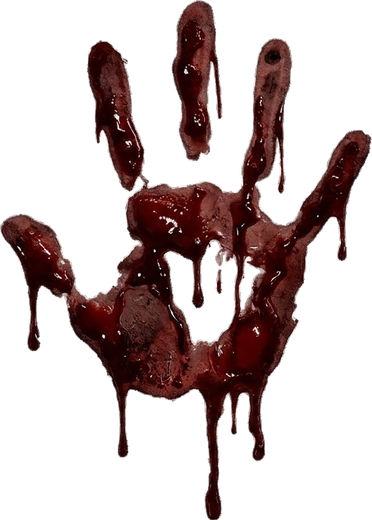
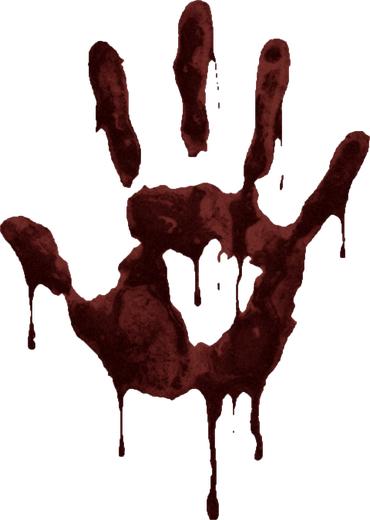
Impronta di mano: via bordini bianchi e riflessi, sangue secco e grezzo nella gamma delle altre scritte
Claude-Session: https://claude.ai/code/session_014dApnh5cQuMdZvTWDcVASP

diff --git a/sw.js b/sw.js
@@ -2,8 +2,8 @@
  * - Shell (html/css/js/vendor/icone): precache, cache-first. Nuova versione => nuovo SW "in attesa" => banner nell'app.
  * - Asset pesanti (modelli, texture, audio): cache separata; scaricati in background dopo l'installazione.
  * Le due versioni qui sotto le aggiorna tools/bump.sh a ogni modifica (hash del contenuto): non toccarle a mano. */
-const SHELL_VERSION = '9cea6ec9b2';   // @shell
-const ASSET_VERSION = '37bdf5ac22';   // @assets
+const SHELL_VERSION = '87e5a7093b';   // @shell
+const ASSET_VERSION = '6fa98053bf';   // @assets
 const SHELL = 'ng-shell-' + SHELL_VERSION, ASSETS = 'ng-assets-' + ASSET_VERSION;
 const SHELL_FILES = ['./','./css/style.css','./icons/icon-180.png','./icons/icon-192.png','./icons/icon-32.png','./icons/icon-512.png','./icons/maskable-512.png','./index.html','./js/audio/audio.js','./js/events/ambient.js','./js/events/cellar.js','./js/events/combat.js','./js/events/dawn.js','./js/events/door.js','./js/events/glass.js','./js/events/hall.js','./js/events/hound.js','./js/events/morgue.js','./js/events/notes.js','./js/events/rats.js','./js/events/scare.js','./js/events/sorella.js','./js/events/tower.js','./js/events/tv.js','./js/events/ward.js','./js/events/warehouse.js','./js/main.js','./js/personal.js','./js/player/controls.js','./js/player/player.js','./js/pwa.js','./js/story.js','./js/ui/instability.js','./js/ui/rgbshift.js','./js/world/aged.js','./js/world/atmos.js','./js/world/blood.js','./js/world/bloodfont.js','./js/world/decor.js','./js/world/dust.js','./js/world/extra.js','./js/world/fingerwrite.js','./js/world/lights.js','./js/world/materials.js','./js/world/nun.js','./js/world/props.js','./js/world/redlight.js','./js/world/rooms.js','./js/world/tunnel.js','./manifest.webmanifest','./vendor/three/LICENSE','./vendor/three/Reflector.js','./vendor/three/loaders/GLTFLoader.js','./vendor/three/three.module.min.js','./vendor/three/utils/BufferGeometryUtils.js']; // @shellfiles
 const ASSET_FILES = ['./assets/audio/crowd_drone.mp3','./assets/audio/demon_growl.mp3','./assets/audio/fire_swoosh.mp3','./assets/audio/hound_breath.mp3','./assets/audio/step0.mp3','./assets/audio/step1.mp3','./assets/audio/step2.mp3','./assets/audio/step3.mp3','./assets/audio/step4.mp3','./assets/models/ammo.glb','./assets/models/axe.glb','./assets/models/bin.glb','./assets/models/c_nurse.glb','./assets/models/c_occ.glb','./assets/models/cabinet.glb','./assets/models/cam.glb','./assets/models/can.glb','./assets/models/cart.glb','./assets/models/chair.glb','./assets/models/door.glb','./assets/models/gate.glb','./assets/models/hlamp.glb','./assets/models/hound.glb','./assets/models/hs_bed.glb','./assets/models/hw_door_1.glb','./assets/models/hw_wheel_chair.glb','./assets/models/kit_cables.glb','./assets/models/kit_fence.glb','./assets/models/kit_gutter.glb','./assets/models/kit_ind.glb','./assets/models/kit_manhole.glb','./assets/models/kit_pipes.glb','./assets/models/lamp.glb','./assets/models/m_bell.glb','./assets/models/m_diver.glb','./assets/models/m_nurse.glb','./assets/models/m_occ.glb','./assets/models/m_pirate.glb','./assets/models/m_root.glb','./assets/models/m_varka.glb','./assets/models/m_whisperer.glb','./assets/models/mg_chair.glb','./assets/models/mg_tool1.glb','./assets/models/mg_tool3.glb','./assets/models/mg_tool4.glb','./assets/models/mg_wall.glb','./assets/models/pistol.glb','./assets/models/rack.glb','./assets/models/rim.glb','./assets/models/seclight.glb','./assets/models/shelf.glb','./assets/models/slamp1.glb','./assets/models/slamp2.glb','./assets/models/sorella.glb','./assets/models/stool.glb','./assets/models/stove.glb','./assets/models/tank.glb','./assets/models/whisperer.glb','./assets/models/wlamp.glb','./assets/models/x_basket.glb','./assets/models/x_bust.glb','./assets/models/x_clock.glb','./assets/models/x_gnome.glb','./assets/models/x_lion.glb','./assets/models/x_micro.glb','./assets/models/x_rat.glb','./assets/models/x_screen.glb','./assets/models/x_spray.glb','./assets/models/x_tv.glb','./assets/models/x_watch.glb','./assets/tex/bath_bg.jpg','./assets/tex/blood_digits.png','./assets/tex/blood_font.png','./assets/tex/blood_real.png','./assets/tex/brick_c.jpg','./assets/tex/brick_n.jpg','./assets/tex/brick_orm.jpg','./assets/tex/floorA_c.jpg','./assets/tex/floorA_n.jpg','./assets/tex/floorA_orm.jpg','./assets/tex/floorB_c.jpg','./assets/tex/floorB_n.jpg','./assets/tex/floorB_orm.jpg','./assets/tex/foot_l.png','./assets/tex/foot_r.png','./assets/tex/hall_bg.jpg','./assets/tex/handA.png','./assets/tex/handC.png','./assets/tex/handM.png','./assets/tex/handN.png','./assets/tex/mg_floor.jpg','./assets/tex/night_bg.jpg','./assets/tex/pic_alice.jpg','./assets/tex/pic_anatomy.webp','./assets/tex/pic_charcoal.webp','./assets/tex/pic_corridor.webp','./assets/tex/pic_drawing.jpg','./assets/tex/pic_drawing2.webp','./assets/tex/pic_elisa.jpg','./assets/tex/pic_family.webp','./assets/tex/pic_mural_angel.webp','./assets/tex/pic_mural_angels.webp','./assets/tex/pic_mural_cathedral.webp','./assets/tex/pic_mural_child.webp','./assets/tex/pic_mural_corridor.webp','./assets/tex/pic_mural_demon.webp','./assets/tex/pic_mural_dog.webp','./assets/tex/pic_mural_door.webp','./assets/tex/pic_mural_eyes.webp','./assets/tex/pic_mural_faces.webp','./assets/tex/pic_mural_fire.webp','./assets/tex/pic_mural_inferno.webp','./assets/tex/pic_mural_nun.webp','./assets/tex/pic_mural_ritual.webp','./assets/tex/pic_mural_skull.webp','./assets/tex/pic_mural_throne.webp','./assets/tex/pic_mural_wide.webp','./assets/tex/pic_rebecca.jpg','./assets/tex/pic_saint.webp','./assets/tex/pic_window.webp','./assets/tex/pic_yana.jpg','./assets/tex/pt_blocks.webp','./assets/tex/pt_gravel.webp','./assets/tex/pt_layers.webp','./assets/tex/pt_mold.webp','./assets/tex/pt_plaster.webp','./assets/tex/pt_rough.webp','./assets/tex/pt_stain.webp','./assets/tex/rust_c.jpg','./assets/tex/rust_n.jpg','./assets/tex/rust_orm.jpg','./assets/tex/rust_ov.jpg','./assets/tex/stone_c.jpg','./assets/tex/stone_n.jpg','./assets/tex/stone_orm.jpg','./assets/tex/sym_eye.png','./assets/tex/sym_face.png','./assets/tex/sym_house.png','./assets/tex/ward_ceiling.jpg','./assets/tex/wr_elisa_1.png','./assets/tex/wr_elisa_2.png','./assets/tex/wr_elisa_3.png','./assets/tex/wr_elisa_4.png','./assets/tex/wr_elisa_h.png','./assets/tex/wr_elisa_m.png','./assets/tex/wr_elisa_o.png','./assets/tex/wr_sigil.png','./assets/tex/wr_std_c2.png','./assets/tex/wr_std_h.png','./assets/tex/wr_std_m.png','./assets/tex/wr_std_o.png','./assets/tex/wr_std_t1.png','./assets/tex/wr_std_t3.png','./assets/tex/wr_std_w4.png','./assets/tex/wr_yana_1.png','./assets/tex/wr_yana_2.png','./assets/tex/wr_yana_3.png','./assets/tex/wr_yana_4.png','./assets/tex/wr_yana_h.png','./assets/tex/wr_yana_m.png','./assets/tex/wr_yana_o.png']; // @assetfiles

diff --git a/js/events/cellar.js b/js/events/cellar.js
@@ -56,7 +56,7 @@ export function createCellar({ scene, mats, player, camera, audio, lights, insta
     { k: 'A', p: [MIRROR.x + 0.012, 1.55, MIRROR.z + 0.28], wall: '+x', h: 0.62, rot: 0.15, flip: true, a: 0.0 },
     { k: 'C', p: [MIRROR.x + 0.012, 1.18, MIRROR.z - 0.34], wall: '+x', h: 0.56, rot: -0.2, a: 0.0 },
   ]); mdecals_fix(); const mdTarget = [0, 0, 0];
-  function mdecals_fix() { mdecals.forEach((m) => { const mat = new THREE.MeshBasicMaterial({ map: m.material.map, transparent: true, opacity: 0, color: new THREE.Color(0.8, 0.52, 0.52), depthWrite: false, polygonOffset: true, polygonOffsetFactor: -3, polygonOffsetUnits: -3 }); m.material = mat; }); }
+  function mdecals_fix() { mdecals.forEach((m) => { const mat = new THREE.MeshBasicMaterial({ map: m.material.map, transparent: true, opacity: 0, color: new THREE.Color(1.15, 0.85, 0.85), depthWrite: false, polygonOffset: true, polygonOffsetFactor: -3, polygonOffsetUnits: -3 }); m.material = mat; }); }
   const wash = (lv, P, d) => { if (!flash) return; flash.color.setHex(0xffcf9a); flash.position.set(P.x - d.x * 3.2, 2.3, P.z - d.z * 3.2 + 1.2); flash.intensity = lv; };
   // PRESENZA: una massa scura INDEFINITA nel vetro (nebbia di ombra, senza testa né braccia): bordi che si sfilacciano, si sposta
   // lentamente, a tratti si addensa. Si capisce che c'è "qualcosa", non cosa. Nessuna figura riconoscibile.

diff --git a/js/world/blood.js b/js/world/blood.js
@@ -28,7 +28,7 @@ export function bloodDecals(group, list) {
   const rotY = { '+x': Math.PI / 2, '-x': -Math.PI / 2, '+z': 0, '-z': Math.PI };
   for (const d of list) {
     const h = (d.h ?? 0.3) * ((d.k === 'A' || d.k === 'C') && d.a !== 0 ? 1.3 : 1), w = h * ASPECT[d.k];   // la mano nuova e' piu' dettagliata: un po' piu' grande
-    const mat = new THREE.MeshStandardMaterial({ map: get(d.k), transparent: true, color: d.k === 'X' ? new THREE.Color(1, 1, 1) : new THREE.Color(0.78, 0.7, 0.7), roughness: d.k === 'X' ? 0.7 : 0.42, metalness: 0, opacity: d.a ?? 0.85, depthWrite: false, polygonOffset: true, polygonOffsetFactor: -3, polygonOffsetUnits: -3, alphaTest: 0.02 });
+    const mat = new THREE.MeshStandardMaterial({ map: get(d.k), transparent: true, color: d.k === 'X' ? new THREE.Color(1, 1, 1) : new THREE.Color(1.1, 0.95, 0.95), roughness: d.k === 'X' ? 0.7 : 0.8, metalness: 0, opacity: d.a ?? 0.85, depthWrite: false, polygonOffset: true, polygonOffsetFactor: -3, polygonOffsetUnits: -3, alphaTest: 0.02 });
     const m = new THREE.Mesh(new THREE.PlaneGeometry(w, h), mat); if (d.flip) m.scale.x = -1;
     m.rotation.set(0, rotY[d.wall], (d.rot ?? 0)); m.rotation.order = 'YXZ';
     m.position.set(...d.p); m.userData.blood = true; group.add(m); made.push(m);
